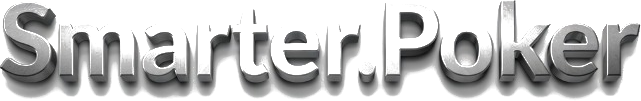
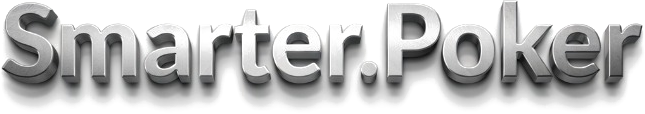
fix: brand-text.png improved bg removal + silver VIP frame + thick header border
- Re-processed brand-text.png with conservative threshold (245/230) preserving lettering
- Added 3px silver bottom border to universal header
- Added silver frame + glow to VIP card icon
- Added brand-text-img CSS class for flex handling

diff --git a/src/components/ui/UniversalHeader.js b/src/components/ui/UniversalHeader.js
@@ -337,7 +337,7 @@ export default function UniversalHeader({
                     display: flex;
                     justify-content: space-between;
                     align-items: center;
-                    border-bottom: 1px solid ${C.border};
+                    border-bottom: 3px solid rgba(192, 192, 210, 0.7);
                     position: sticky;
                     top: 0;
                     z-index: 100;
@@ -449,6 +449,11 @@ export default function UniversalHeader({
                     font-weight: 700;
                     letter-spacing: 0.3px;
                     white-space: nowrap;
+                }
+
+                .brand-text-img {
+                    flex-shrink: 1;
+                    min-width: 0;
                 }
                 
                 .diamond-wallet {
@@ -658,7 +663,7 @@ export default function UniversalHeader({
                     {/* VIP Card Icon — only for VIP members */}
                     {isVip && (
                         <Link href="/hub/diamond-store" style={{ textDecoration: 'none' }}>
-                            <div className="orb-btn" style={{ borderRadius: 6 }}>
+                            <div className="orb-btn" style={{ borderRadius: 6, border: '2px solid rgba(192, 192, 210, 0.6)', boxShadow: '0 0 6px rgba(192, 192, 210, 0.3)' }}>
                                 <img
                                     src="/images/vip-card.png"
                                     alt="VIP Member"
